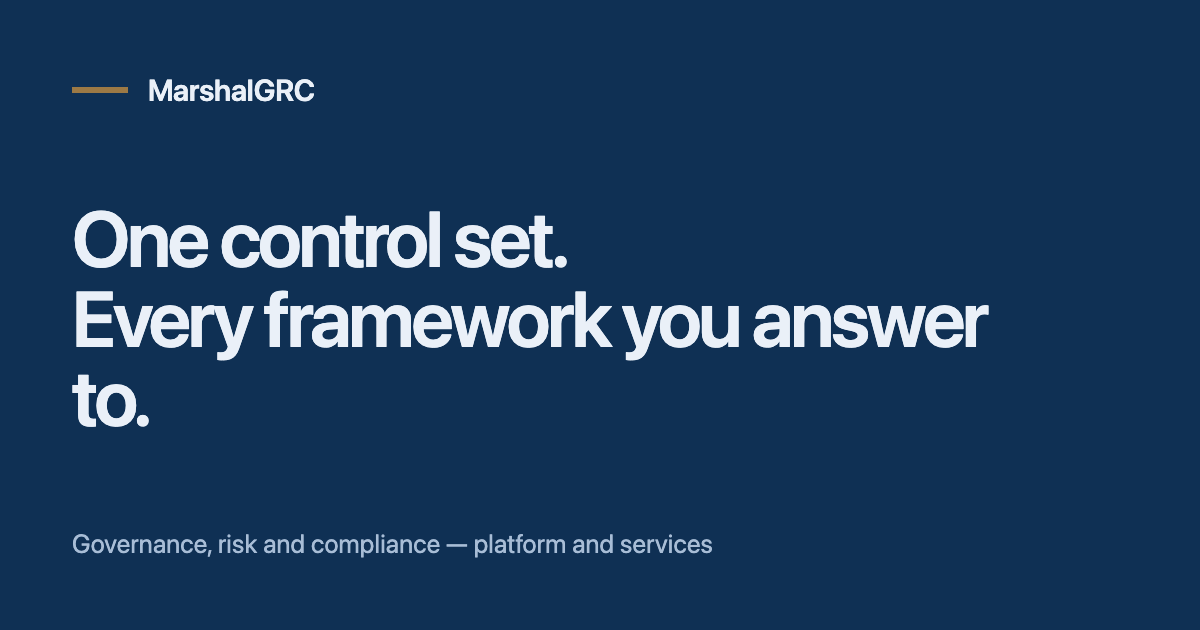
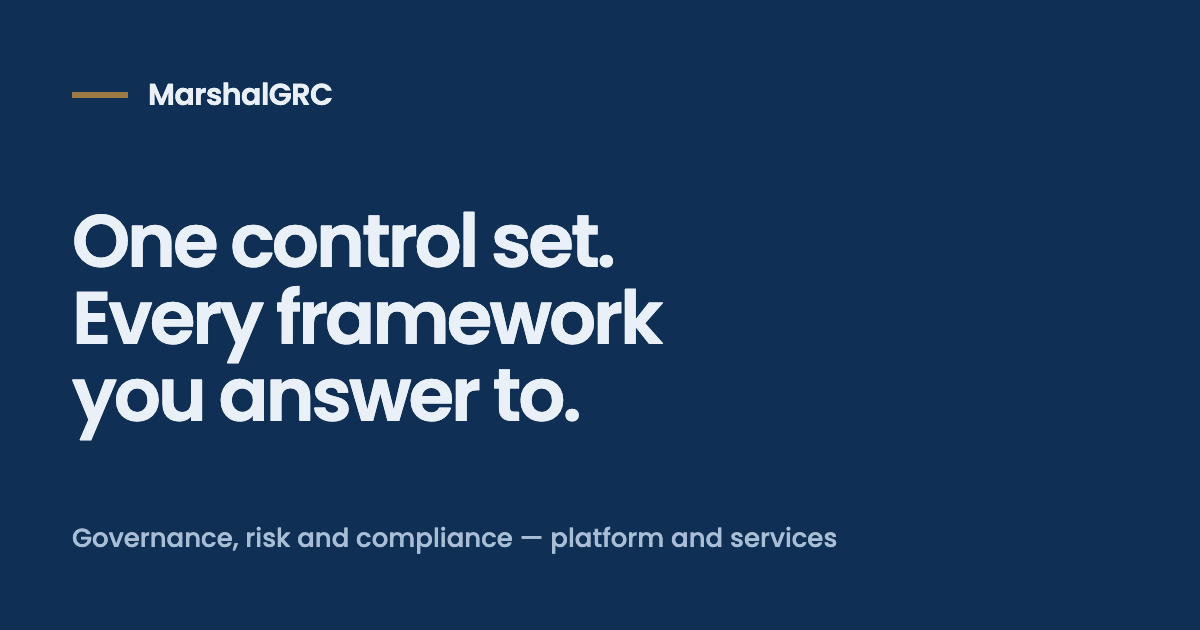
Stop the header wrapping, and fix the social card's typeface
Adding the Client login link pushed the header past its width between 981 and
1120px, where it wrapped onto a second line instead of overflowing — so the
sweep for horizontal scroll saw nothing wrong. Nav items no longer wrap and
the menu takes over before they would need to. A test measures the header's
height across desktop widths, which is what wrapping actually changes.

The social card was rendering in Helvetica because setContent never loaded
the site's fonts. It now requests Poppins and waits for it, and breaks across
three lines the way the hero does.

Names GitHub Pages as the host in the privacy notice, which is no longer an
unknown for the deployed site.

diff --git a/app/globals.css b/app/globals.css
@@ -47,19 +47,20 @@ p{margin:0 0 1em;max-width:66ch;text-wrap:pretty}
 .brand{display:flex;align-items:center;text-decoration:none;min-height:44px}
 .brand img{height:34px;width:auto;display:block}
 .nav{display:flex;gap:2px;align-items:center}
-.nav a{color:var(--ink-2);text-decoration:none;padding:10px 14px;font-weight:500;font-size:.97rem;position:relative}
+.nav a{color:var(--ink-2);text-decoration:none;padding:10px 14px;font-weight:500;font-size:.97rem;
+  position:relative;white-space:nowrap}
 .nav a:hover{color:var(--ink)}
 .nav a[aria-current="page"]{color:var(--ink);font-weight:600}
 .nav a[aria-current="page"]::after{content:"";position:absolute;left:14px;right:14px;bottom:4px;height:2px;background:var(--gold)}
 .nav .btn{margin-left:12px}
-.portal-link{color:var(--ink-2);text-decoration:none;font-weight:500;font-size:.97rem;
+.portal-link{color:var(--ink-2);text-decoration:none;font-weight:500;font-size:.97rem;white-space:nowrap;
   padding:10px 14px;min-height:44px;display:inline-flex;align-items:center;
   border:1px solid var(--rule-2);margin-left:10px}
 .portal-link:hover{border-color:var(--ink);color:var(--ink)}
-@media (max-width:980px){.portal-link{margin:10px 0 0;justify-content:center}}
+@media (max-width:1120px){.portal-link{margin:10px 0 0;justify-content:center}}
 .nav .btn-primary{color:#fff}
 .menu-btn{display:none;background:none;border:1px solid var(--rule-2);color:var(--ink);padding:12px 16px;min-height:44px;font:500 .95rem var(--body);cursor:pointer}
-@media (max-width:980px){
+@media (max-width:1120px){
   .menu-btn{display:block}
   .nav{position:absolute;left:0;right:0;top:76px;flex-direction:column;align-items:stretch;
     background:var(--paper);padding:10px var(--gutter) 24px;border-bottom:1px solid var(--rule);display:none}
@@ -70,7 +71,7 @@ p{margin:0 0 1em;max-width:66ch;text-wrap:pretty}
 }
 
 /* ── Buttons: square, like a stamped form field ─────────────────────────── */
-.btn{display:inline-block;font:600 1rem var(--body);padding:15px 26px;text-decoration:none;cursor:pointer;
+.btn{display:inline-block;font:600 1rem var(--body);padding:15px 26px;text-decoration:none;cursor:pointer;white-space:nowrap;
   border:1px solid transparent;transition:background .15s ease,color .15s ease,border-color .15s ease}
 .btn-primary{background:var(--ink);color:#fff}
 .btn-primary:hover{background:var(--field-2)}

diff --git a/app/privacy/page.tsx b/app/privacy/page.tsx
@@ -57,10 +57,11 @@ export default function PrivacyPage() {
 
           <h2>Hosting and server logs</h2>
           <p>
-            <span className="todo">[Hosting provider to be confirmed]</span> serves these
-            pages. Like most web servers it records requests, which typically includes IP
-            addresses. The retention period for those logs is{" "}
-            <span className="todo">[to be confirmed with the hosting provider]</span>.
+            These pages are served by GitHub Pages. Like most web servers it records
+            requests, which typically includes IP addresses; GitHub&apos;s own privacy
+            statement covers that processing. The retention period is{" "}
+            <span className="todo">[to be confirmed]</span>, and this section must be
+            updated if the site moves to different hosting.
           </p>
 
           <h2>Your rights</h2>

diff --git a/e2e/site.spec.ts b/e2e/site.spec.ts
@@ -189,6 +189,17 @@ test("a completed form is addressed to the forms inbox", async ({ page }) => {
   await expect(page.getByRole("link", { name: "victor.m@marshalgrc.com" })).toBeVisible();
 });
 
+test("the header never wraps to a second line", async ({ page }) => {
+  // Wrapping, unlike overflow, leaves scrollWidth untouched, so the sweep for
+  // horizontal scroll cannot see it. Measure the row height instead.
+  for (const w of [1121, 1200, 1280, 1440, 1920]) {
+    await page.setViewportSize({ width: w, height: 800 });
+    await page.goto("/");
+    const h = await page.locator(".head-row").evaluate((e) => e.getBoundingClientRect().height);
+    expect(h, `header grew to ${h}px at ${w}px wide`).toBeLessThan(90);
+  }
+});
+
 test.describe("accessibility", () => {
   for (const route of ROUTES) {
     test(`${route} has no axe violations`, async ({ page }) => {
